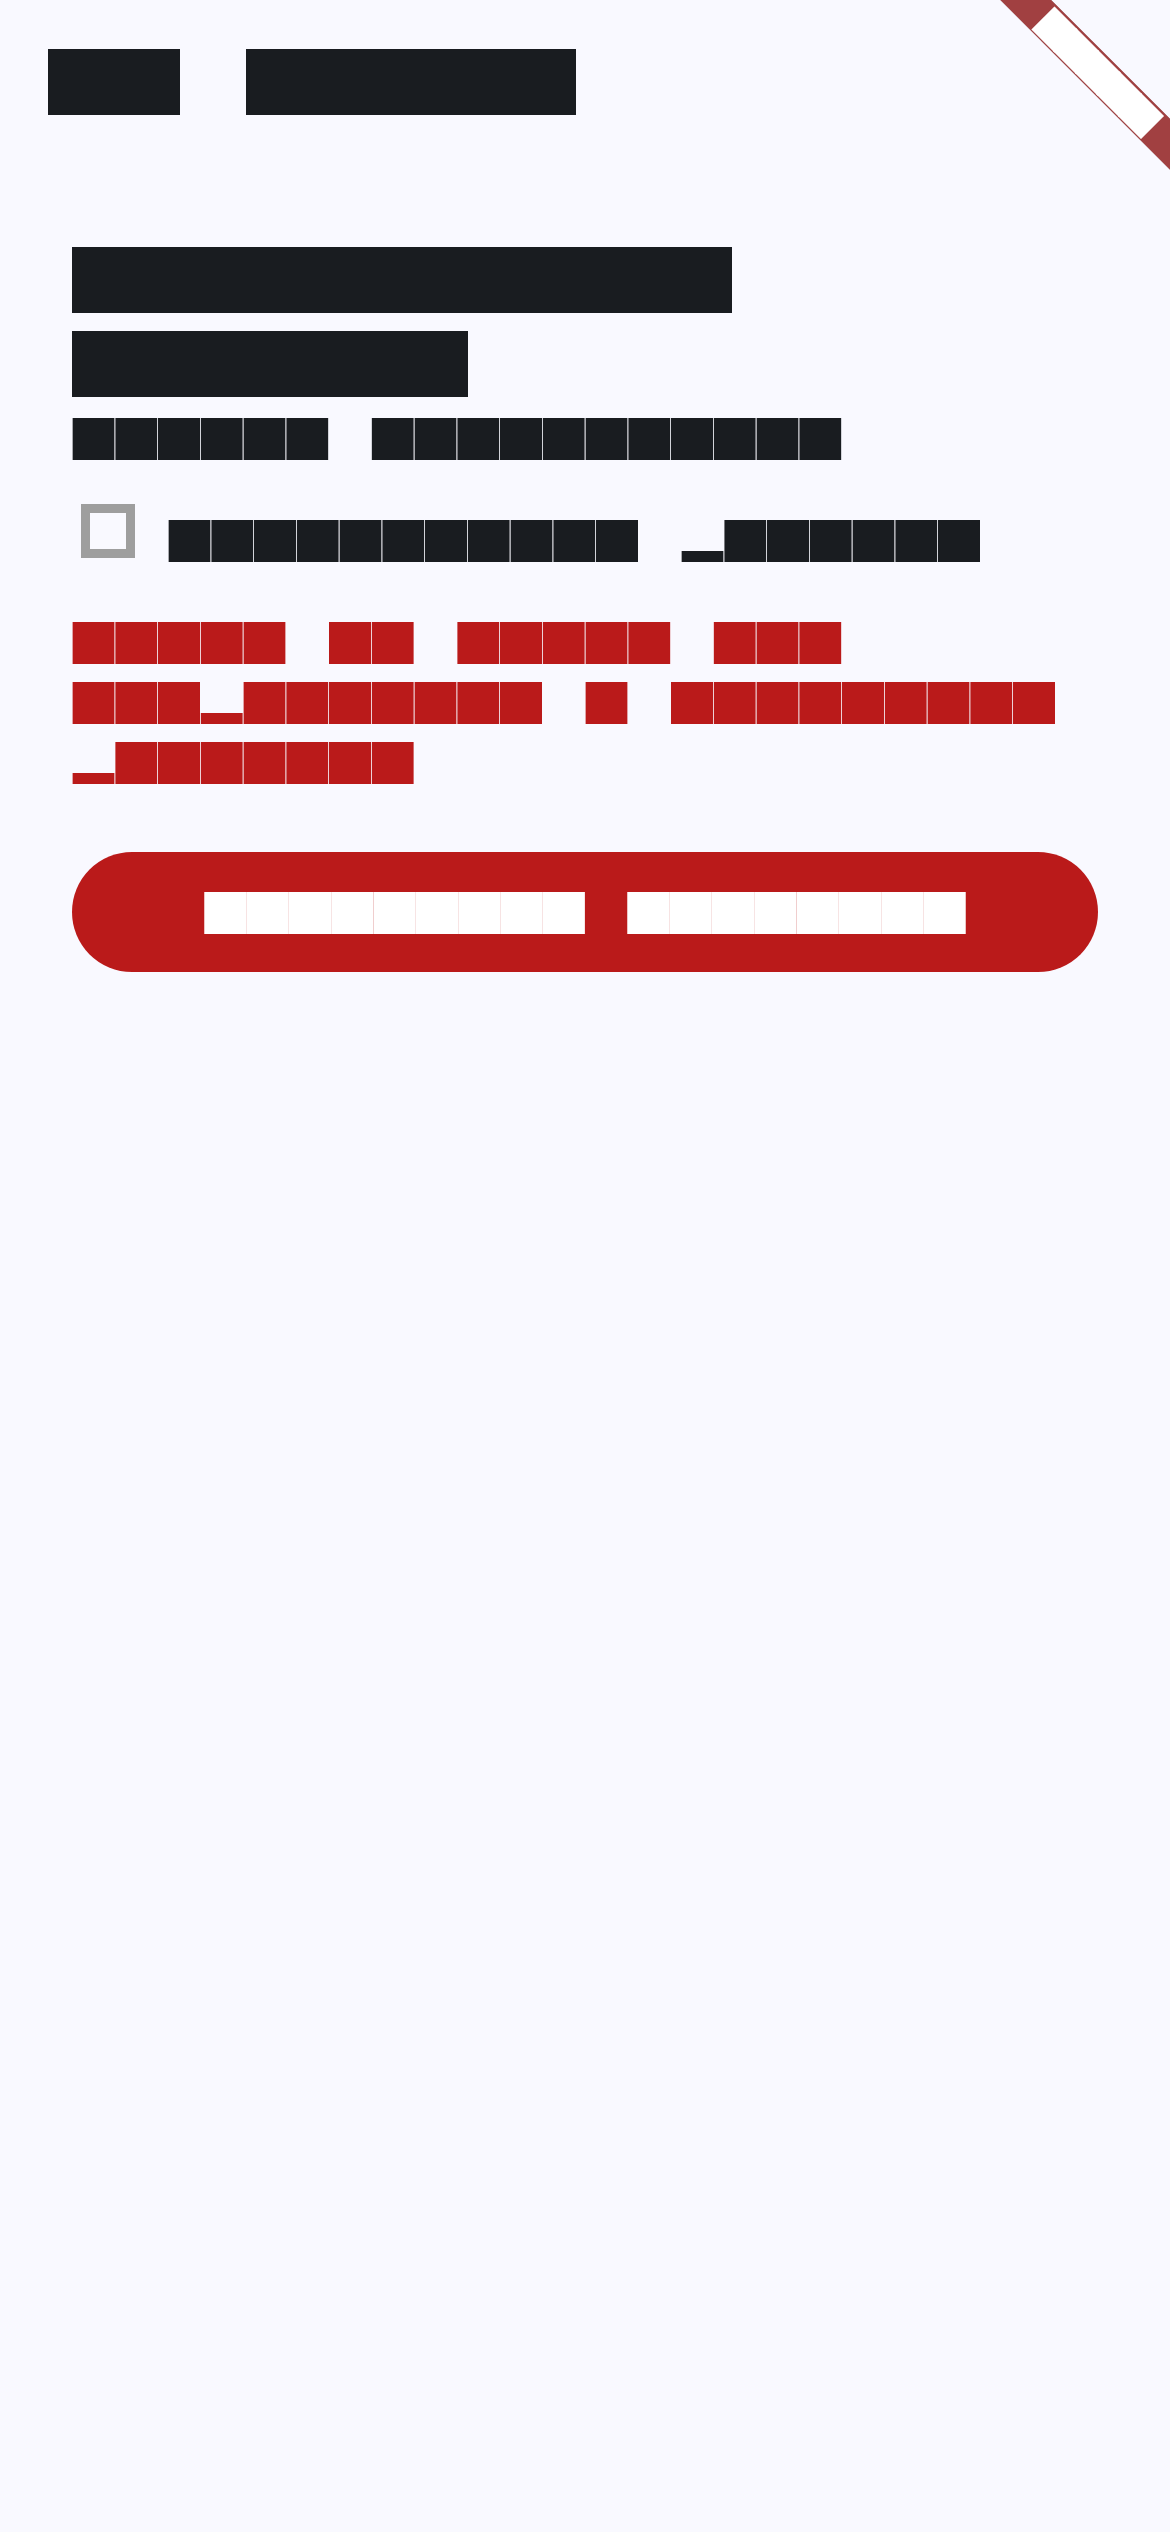
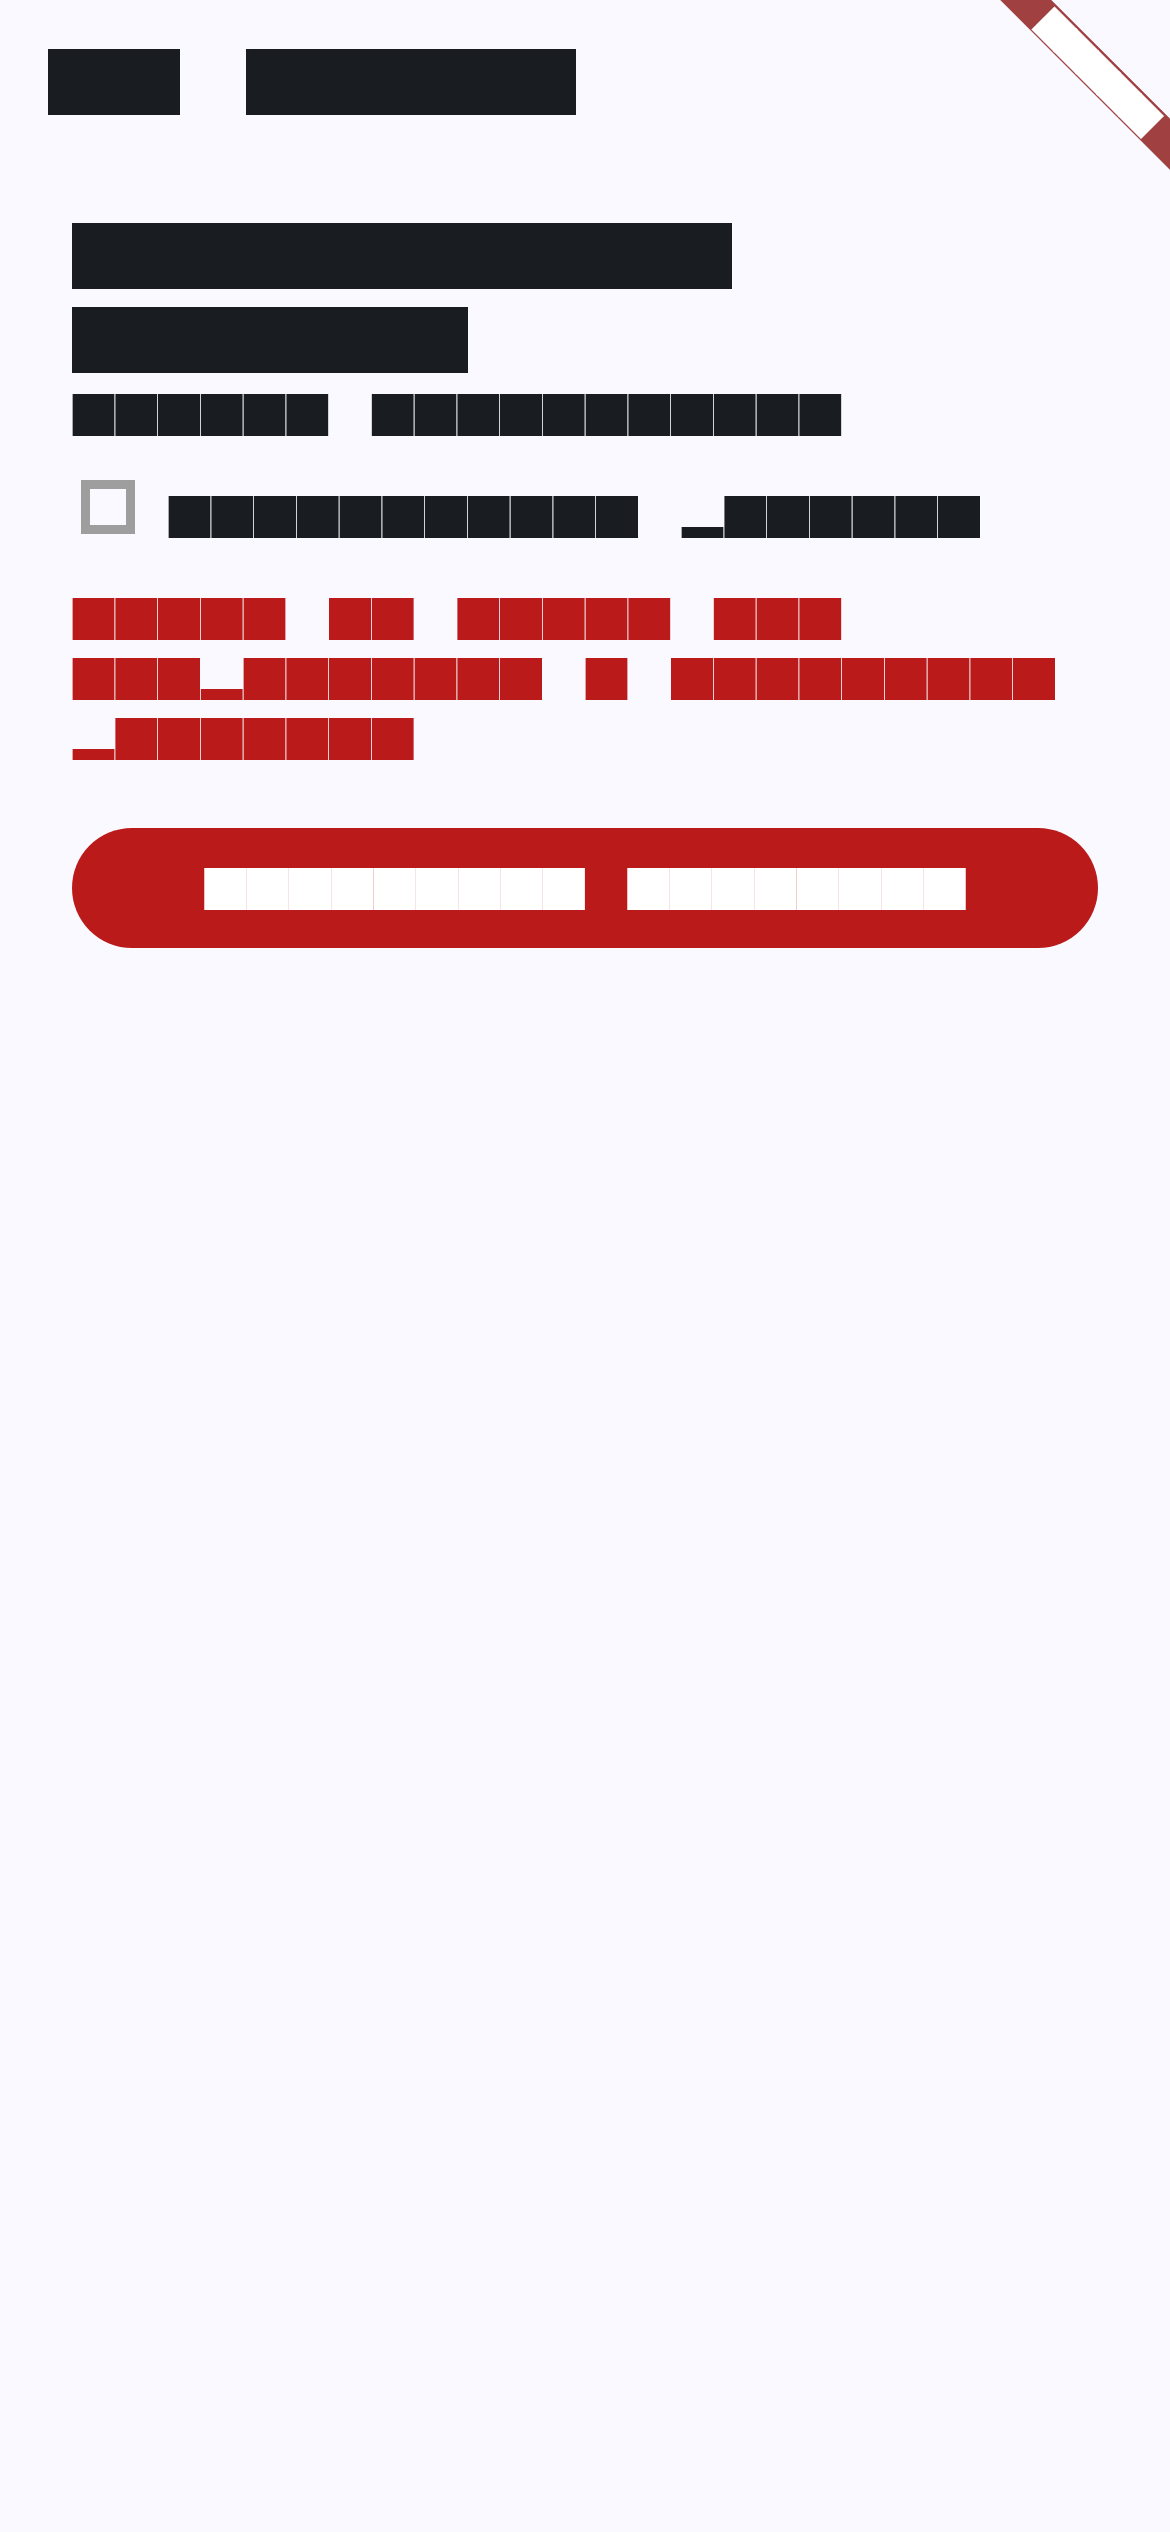
Android package cl.heavenly.flightvis + App Links check-in (#2)
Squash of flightvis-client #2 at 233345a. Reviewed by Kepler; merged on Pablo OK (card t733s2557).

Changed region(s): [[0.0615, 0.0624, 0.9231, 0.4056], [0.9231, 0.3432, 0.9538, 0.3744]]

diff --git a/lib/screens/tracking_screen.dart b/lib/screens/tracking_screen.dart
@@ -137,8 +137,8 @@ class _TrackingScreenState extends State<TrackingScreen> {
     try {
       await widget.tracking.stop();
       if (AppConfig.screenshotTest) {
-        await widget.repo.prefs.setActiveFlightId(null);
         if (mounted) widget.onStopped();
+        await widget.repo.prefs.setActiveFlightId(null);
         return;
       }
       await widget.repo.client.endFlight(widget.flightId);
@@ -161,12 +161,13 @@ class _TrackingScreenState extends State<TrackingScreen> {
     return Scaffold(
       key: FlightVisTestKeys.trackingScreen,
       appBar: AppBar(title: Text(l10n.pilotTrackingTitle)),
-      body: SingleChildScrollView(
-        padding: const EdgeInsets.all(24),
-        child: Column(
-          mainAxisSize: MainAxisSize.min,
-          crossAxisAlignment: CrossAxisAlignment.stretch,
-          children: [
+      body: SafeArea(
+        child: SingleChildScrollView(
+          padding: const EdgeInsets.symmetric(horizontal: 24, vertical: 16),
+          child: Column(
+            mainAxisSize: MainAxisSize.min,
+            crossAxisAlignment: CrossAxisAlignment.stretch,
+            children: [
             Text(l10n.pilotTailLine(widget.tail), style: Theme.of(context).textTheme.titleLarge),
             Text(l10n.pilotFlightIdLine(widget.flightId)),
             const SizedBox(height: 12),
@@ -194,7 +195,8 @@ class _TrackingScreenState extends State<TrackingScreen> {
               onPressed: _endFlight,
               child: Text(l10n.pilotStop),
             ),
-          ],
+            ],
+          ),
         ),
       ),
     );

diff --git a/lib/util/flight_deep_link.dart b/lib/util/flight_deep_link.dart
@@ -23,6 +23,11 @@ class MagicLinkDeepLink extends ParsedDeepLink {
   final String token;
 }
 
+/// `https://flight.heavenly.cl/app.html` — open the signed-in / guest home hub.
+class AppHomeDeepLink extends ParsedDeepLink {
+  const AppHomeDeepLink();
+}
+
 class FlightDeepLink {
   static const productionHost = 'flight.heavenly.cl';
   static const androidPackage = 'cl.heavenly.flightvis';
@@ -47,6 +52,9 @@ class FlightDeepLink {
   static ParsedDeepLink? parseHttpsUri(Uri uri) {
     if (!_isTrustedHost(uri)) return null;
     final segs = uri.pathSegments.where((s) => s.isNotEmpty).toList();
+    if (segs.length == 1 && segs[0] == 'app.html') {
+      return const AppHomeDeepLink();
+    }
     if (segs.length >= 4 && segs[0] == 'c' && segs[2] == 'q') {
       final slug = segs[1];
       final token = Uri.decodeComponent(segs.sublist(3).join('/'));

diff --git a/integration_test/integration_helpers.dart b/integration_test/integration_helpers.dart
@@ -130,9 +130,10 @@ Future<void> stopTrackingAndReturnToHub(WidgetTester tester) async {
   );
   await tester.runAsync(() async {
     ciLog('tracking: tap stop');
-    await tester.tap(find.byKey(FlightVisTestKeys.trackingStop));
+    await tester.ensureVisible(stop);
+    await tester.tap(stop);
   });
-  await pumpFrames(tester, total: const Duration(seconds: 2));
+  await pumpFrames(tester, total: const Duration(seconds: 4));
   await waitForAbsent(
     tester,
     find.byKey(FlightVisTestKeys.trackingScreen),

diff --git a/test/flight_deep_link_test.dart b/test/flight_deep_link_test.dart
@@ -21,6 +21,13 @@ void main() {
       expect((link! as MagicLinkDeepLink).token, 'abc123');
     });
 
+    test('parses app.html as home', () {
+      final link = FlightDeepLink.parseIncoming(
+        Uri.parse('https://flight.heavenly.cl/app.html'),
+      );
+      expect(link, isA<AppHomeDeepLink>());
+    });
+
     test('parses server magic consume URL (C-5)', () {
       final link = FlightDeepLink.parseIncoming(
         Uri.parse('https://flight.heavenly.cl/api/club/auth/magic?token=abc123'),

diff --git a/integration_test/screenshot_flow_test.dart b/integration_test/screenshot_flow_test.dart
@@ -148,6 +148,10 @@ void main() {
 
         await pumpFrames(tester, total: const Duration(seconds: 1));
         expect(find.byKey(FlightVisTestKeys.trackingStop), findsOneWidget);
+
+        await ciStep(tester, 'stop tracking (teardown)', () async {
+          await stopTrackingAndReturnToHub(tester);
+        }, timeout: const Duration(seconds: 120));
         ciLog('screenshots: done');
       } catch (e) {
         await saveCiFailureScreenshot(binding, 'screenshot-flow-failure');

diff --git a/lib/main.dart b/lib/main.dart
@@ -93,6 +93,12 @@ class _FlightVisAppState extends State<FlightVisApp> {
   }
 
   Future<void> _onDeepLink(ParsedDeepLink link) async {
+    if (link is AppHomeDeepLink) {
+      if (!_appReady) return;
+      if (_flow == _Flow.tracking) return;
+      if (mounted) _goHub();
+      return;
+    }
     if (link is MagicLinkDeepLink) {
       try {
         final pilot = await widget.repo.client.completeMagicLink(

diff --git a/README.md b/README.md
@@ -10,8 +10,13 @@ The release app verifies against Digital Asset Links on the server.
 |------|---------|
 | `/c/{slug}/q/{token}` | Club QR check-in (multi-club) |
 | `/auth/magic/{token}` | Email magic-link login |
+| `/app.html` | Open app home (hub) |
 
-`AndroidManifest.xml` uses `android:autoVerify="true"` for `https://flight.heavenly.cl` with `pathPrefix` `/c/` and `/auth/magic/`. There are no custom URI schemes; the web fallback page may launch `intent://…#Intent;scheme=https;package=cl.heavenly.flightvis;…` which the app resolves to the same HTTPS paths.
+`AndroidManifest.xml` uses `android:autoVerify="true"` for `https://flight.heavenly.cl` with `pathPrefix` `/c/`, `/api/club/auth/magic`, and exact path `/app.html`. There are no custom URI schemes; the web fallback page may launch `intent://…#Intent;scheme=https;package=cl.heavenly.flightvis;…` which the app resolves to the same HTTPS paths.
+
+**Migration:** Uninstall any existing `org.traccar.client` build before installing `cl.heavenly.flightvis` (Android treats them as different apps).
+
+**Server env:** set `FLIGHT_ANDROID_APP_PACKAGE=cl.heavenly.flightvis` and `FLIGHT_ANDROID_CERT_SHA256` to the release keystore certificate SHA-256 (`keytool -list -v -keystore … -alias …`).
 
 ### Signing certificate SHA-256 for `assetlinks.json`
 
